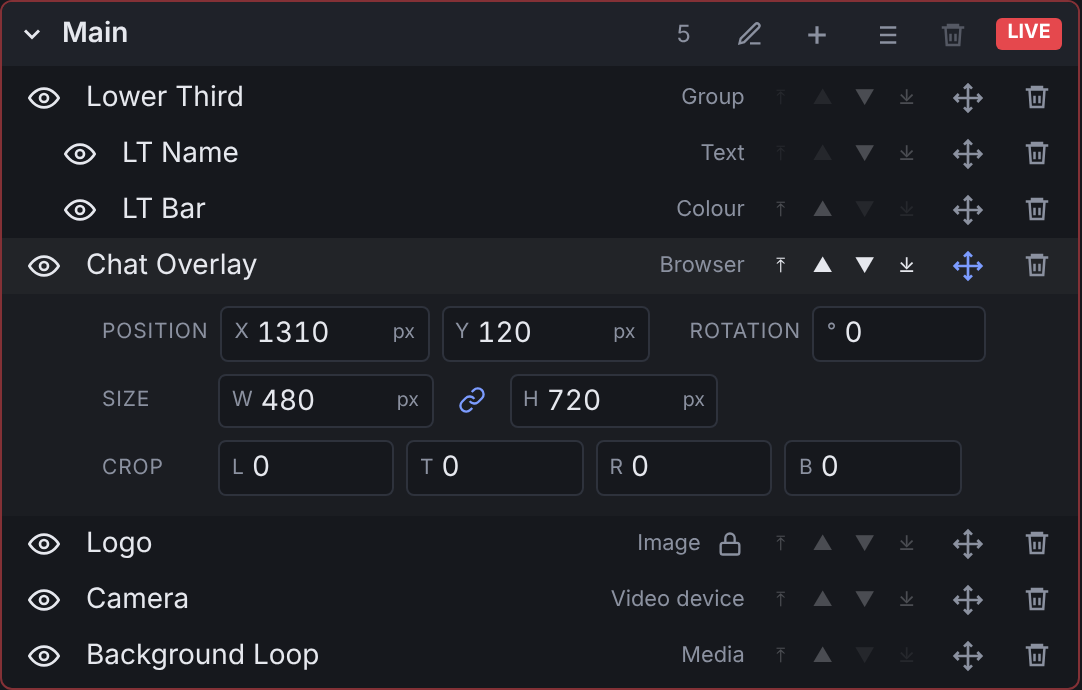
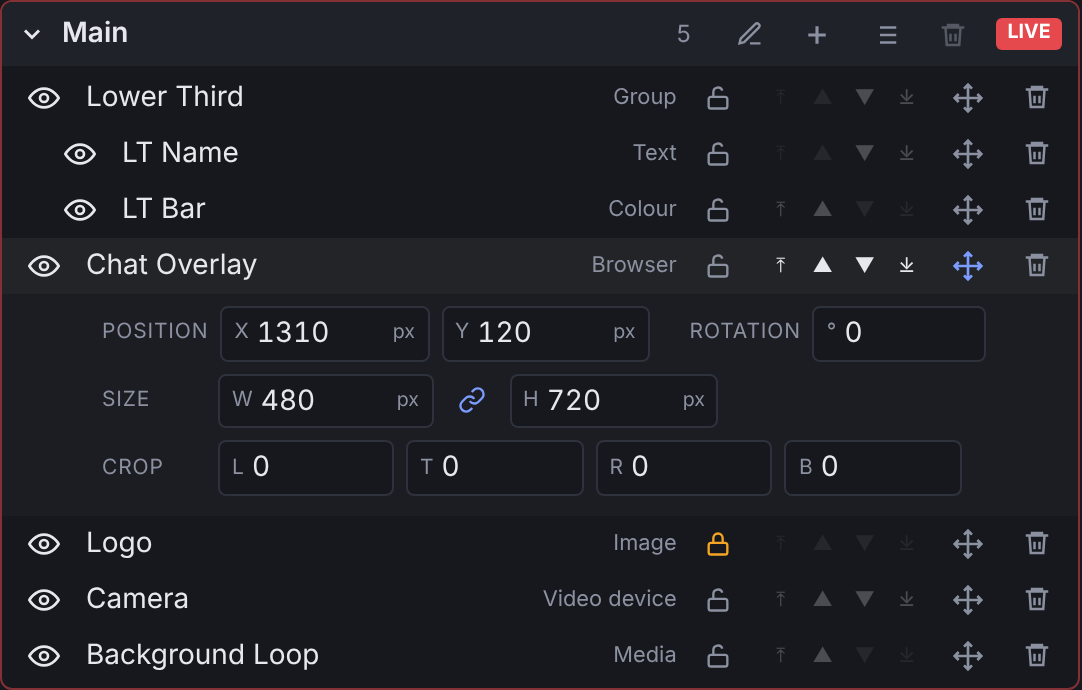
Lock and unlock sources from Stagehand

diff --git a/tests/app/scenes.test.tsx b/tests/app/scenes.test.tsx
@@ -13,7 +13,7 @@ describe('scenes and items', () => {
     expect(shownItems('Main')).toEqual(['Lower Third', 'LT Name', 'LT Bar', 'Chat Overlay', 'Logo', 'Camera', 'Background Loop'])
     expect(itemRow('Main', 'Lower Third').textContent).toContain('Group')
     expect(itemRow('Interview', 'Main').textContent).toContain('Scene')
-    expect(itemRow('Main', 'Logo').querySelector('.item__lock')).not.toBeNull()
+    expect(itemRow('Main', 'Logo').querySelector('.item__lock')!.getAttribute('aria-pressed')).toBe('true')
     expect(isHidden(itemRow('BRB', 'Music'))).toBe(true)
   })
 
@@ -200,5 +200,62 @@ describe('panel controls', () => {
     const count = obs.requestsOf('GetSourceScreenshot').length
     await sleep(1300)
     expect(obs.requestsOf('GetSourceScreenshot').length).toBe(count)
+  })
+})
+
+describe('locking items', () => {
+  const lockButton = (scene: string, name: string) => itemRow(scene, name).querySelector('button.item__lock') as HTMLButtonElement
+
+  test('the padlock shows OBS\'s lock state and toggles it', async () => {
+    const { obs, user } = await renderConnected()
+    expect(lockButton('Main', 'Logo').getAttribute('aria-pressed')).toBe('true') // locked in the fixture
+    expect(lockButton('Main', 'Camera').getAttribute('aria-pressed')).toBe('false')
+
+    await user.click(lockButton('Main', 'Camera'))
+    expect(await waitForRequest(obs, 'SetSceneItemLocked')).toMatchObject({ sceneName: 'Main', sceneItemLocked: true })
+    await waitFor(() => expect(obs.containers.get('Main')!.find((i) => i.sourceName === 'Camera')!.locked).toBe(true))
+    expect(lockButton('Main', 'Camera').getAttribute('aria-pressed')).toBe('true')
+
+    await user.click(lockButton('Main', 'Logo'))
+    expect(await waitForRequest(obs, 'SetSceneItemLocked', 2)).toMatchObject({ sceneItemLocked: false })
+  })
+
+  test('works inside groups (the group is the "scene" sent to OBS)', async () => {
+    const { obs, user } = await renderConnected()
+    await user.click(lockButton('Main', 'LT Bar'))
+    expect(await waitForRequest(obs, 'SetSceneItemLocked')).toMatchObject({ sceneName: 'Lower Third', sceneItemLocked: true })
+  })
+
+  test('a locked item can\'t be reordered, but its neighbours can', async () => {
+    await renderConnected()
+    const logo = itemRow('Main', 'Logo')
+    for (const t of [/Move to top/, 'Move up', 'Move down', /Move to bottom/]) expect(buttonTitled(logo, t).disabled).toBe(true)
+    expect(buttonTitled(itemRow('Main', 'Camera'), 'Move up').disabled).toBe(false)
+  })
+
+  test('a locked item\'s transform can be viewed but not changed', async () => {
+    const { obs, user } = await renderConnected()
+    await user.click(buttonTitled(itemRow('Main', 'Logo'), 'Edit transform'))
+    await waitFor(() => expect(itemRow('Main', 'Logo').querySelector('.transform .numfield')).not.toBeNull())
+    expect(itemRow('Main', 'Logo').textContent).toMatch(/Locked: unlock the item/)
+    const inputs = [...itemRow('Main', 'Logo').querySelectorAll<HTMLInputElement>('.transform input')]
+    expect(inputs.length).toBeGreaterThan(0)
+    expect(inputs.every((i) => i.matches(':disabled'))).toBe(true)
+
+    // Unlocking (here: from OBS itself) makes it editable straight away.
+    const id = obs.containers.get('Main')!.find((i) => i.sourceName === 'Logo')!.id
+    obs.emit('SceneItemLockStateChanged', { sceneName: 'Main', sceneItemId: id, sceneItemLocked: false })
+    await waitFor(() => expect(inputs.every((i) => !i.matches(':disabled'))).toBe(true))
+    await user.click(lockButton('Main', 'Logo')) // and locking again disables it
+    await waitFor(() => expect(inputs.every((i) => i.matches(':disabled'))).toBe(true))
+    expect(obs.requestsOf('SetSceneItemTransform')).toHaveLength(0)
+  })
+
+  test('if OBS refuses, the padlock flips back and an error is shown', async () => {
+    const { obs, user } = await renderConnected()
+    obs.failNext('SetSceneItemLocked', 600, 'No scene item')
+    await user.click(lockButton('Main', 'Camera'))
+    await screen.findByText(/couldn't lock item/i)
+    expect(lockButton('Main', 'Camera').getAttribute('aria-pressed')).toBe('false')
   })
 })

diff --git a/src/store/scenes.ts b/src/store/scenes.ts
@@ -27,6 +27,8 @@ interface ScenesState {
   /** Transforms of items whose editor is open, keyed by itemKey(container, id). */
   transforms: Record<string, Transform>
   setEnabled: (container: string, itemId: number, enabled: boolean) => Promise<void>
+  /** Lock or unlock an item in OBS (the padlock in OBS's Sources dock). */
+  setLocked: (container: string, itemId: number, locked: boolean) => Promise<void>
   clearError: () => void
   loadTransform: (container: string, itemId: number) => Promise<void>
   setTransform: (container: string, itemId: number, patch: Partial<Transform>) => Promise<void>
@@ -135,6 +137,11 @@ export const useScenes = create<ScenesState>()((set, get) => {
     }
   }
 
+  /** Locked items keep their position, size and order (also guarded here, not just in the UI). */
+  function isLocked(container: string, id: number) {
+    return get().items[container]?.find((it) => it.id === id)?.locked ?? false
+  }
+
   function patchItem(container: string, id: number, patch: Partial<SceneItem>) {
     const list = get().items[container]
     if (!list) return
@@ -184,6 +191,16 @@ export const useScenes = create<ScenesState>()((set, get) => {
       }
     },
 
+    setLocked: async (container, itemId, locked) => {
+      patchItem(container, itemId, { locked }) // optimistic
+      try {
+        await obs.call('SetSceneItemLocked', { sceneName: container, sceneItemId: itemId, sceneItemLocked: locked })
+      } catch (e) {
+        patchItem(container, itemId, { locked: !locked })
+        set({ error: `Couldn't ${locked ? 'lock' : 'unlock'} item: ${errorText(e)}` })
+      }
+    },
+
     clearError: () => set({ error: null }),
 
     removeItem: async (container, itemId) => {
@@ -199,7 +216,7 @@ export const useScenes = create<ScenesState>()((set, get) => {
       const list = get().items[container]
       if (!list) return
       const from = list.findIndex((it) => it.id === itemId)
-      if (from < 0) return
+      if (from < 0 || list[from].locked) return
       const last = list.length - 1
       const target = to === 'top' ? 0 : to === 'bottom' ? last : to === 'up' ? from - 1 : from + 1
       if (target < 0 || target > last || target === from) return
@@ -268,6 +285,10 @@ export const useScenes = create<ScenesState>()((set, get) => {
     },
 
     setTransform: async (container, itemId, patch) => {
+      if (isLocked(container, itemId)) {
+        set({ error: 'That item is locked: unlock it to change its position, size or crop.' })
+        return
+      }
       try {
         await obs.call('SetSceneItemTransform', {
           sceneName: container,

diff --git a/src/features/scenes/ItemRow.tsx b/src/features/scenes/ItemRow.tsx
@@ -1,5 +1,5 @@
 import { ConfirmStrip } from '../../components/ConfirmStrip'
-import { EyeIcon, EyeOffIcon, LockIcon, TransformIcon, TrashIcon } from '../../components/icons'
+import { EyeIcon, EyeOffIcon, LockIcon, TransformIcon, TrashIcon, UnlockIcon } from '../../components/icons'
 import { kindLabel } from '../../obs/kinds'
 import { useInputs } from '../../store/inputs'
 import { containersOf } from '../../store/live'
@@ -15,6 +15,7 @@ const indent = (depth: number, base = 8) => ({ paddingLeft: base + depth * 18 })
 export function ItemRow({ row, ui }: { row: Row; ui: ScenesPanelState }) {
   const { item, container, depth } = row
   const setEnabled = useScenes((s) => s.setEnabled)
+  const setLocked = useScenes((s) => s.setLocked)
   const key = itemKey(container, item.id)
   const editing = ui.openEditors.has(key)
 
@@ -31,12 +32,15 @@ export function ItemRow({ row, ui }: { row: Row; ui: ScenesPanelState }) {
         </button>
         <span className="item__name">{item.sourceName}</span>
         <span className="item__kind">{kindLabel(item.inputKind, item)}</span>
-        {item.locked && (
-          <span className="item__lock" title="Locked in OBS">
-            <LockIcon />
-          </span>
-        )}
-        <OrderButtons container={container} itemId={item.id} />
+        <button
+          className={`icon-button item__lock ${item.locked ? 'is-locked' : 'is-off'}`}
+          onClick={() => void setLocked(container, item.id, !item.locked)}
+          aria-pressed={item.locked}
+          title={item.locked ? 'Locked: position, size and order are protected. Click to unlock' : 'Unlocked: click to lock its position, size and order'}
+        >
+          {item.locked ? <LockIcon /> : <UnlockIcon />}
+        </button>
+        <OrderButtons container={container} itemId={item.id} locked={item.locked} />
         <button
           className={`icon-button ${editing ? 'is-active' : 'is-off'}`}
           onClick={() => ui.toggleEditor(key)}

diff --git a/src/features/scenes/OrderButtons.tsx b/src/features/scenes/OrderButtons.tsx
@@ -1,16 +1,19 @@
 import { useScenes } from '../../store/scenes'
 
-/** ⤒ ▲ ▼ ⤓ buttons for an item's stacking order. Buttons that would do nothing are disabled. */
-export function OrderButtons({ container, itemId }: { container: string; itemId: number }) {
+/**
+ * ⤒ ▲ ▼ ⤓ buttons for an item's stacking order. Buttons that would do nothing are disabled, and
+ * all of them are when the item is locked.
+ */
+export function OrderButtons({ container, itemId, locked = false }: { container: string; itemId: number; locked?: boolean }) {
   const siblings = useScenes((s) => s.items[container]) ?? []
   const moveItem = useScenes((s) => s.moveItem)
   const pos = siblings.findIndex((s) => s.id === itemId)
-  const isTop = pos <= 0
-  const isBottom = pos === siblings.length - 1
+  const isTop = locked || pos <= 0
+  const isBottom = locked || pos === siblings.length - 1
   const move = (to: 'top' | 'up' | 'down' | 'bottom') => void moveItem(container, itemId, to)
 
   return (
-    <span className="item__order" aria-label="Order">
+    <span className="item__order" aria-label="Order" title={locked ? 'Locked: unlock to change its order' : undefined}>
       <button className="order-button" disabled={isTop} onClick={() => move('top')} title="Move to top (drawn above everything)">⤒</button>
       <button className="order-button" disabled={isTop} onClick={() => move('up')} title="Move up">▲</button>
       <button className="order-button" disabled={isBottom} onClick={() => move('down')} title="Move down">▼</button>

diff --git a/src/features/scenes/TransformEditor.tsx b/src/features/scenes/TransformEditor.tsx
@@ -15,6 +15,8 @@ const positive = (n: number) => n > 0
 
 export function TransformEditor({ container, itemId }: Props) {
   const t = useScenes((s) => s.transforms[itemKey(container, itemId)])
+  // A locked item's transform can be viewed but not changed (as in OBS, where locked items can't be dragged).
+  const locked = useScenes((s) => s.items[container]?.find((i) => i.id === itemId)?.locked ?? false)
   const loadTransform = useScenes((s) => s.loadTransform)
   const setTransform = useScenes((s) => s.setTransform)
   const [lockAspect, setLockAspect] = useState(() => {
@@ -50,7 +52,8 @@ export function TransformEditor({ container, itemId }: Props) {
   }
 
   return (
-    <div className="transform">
+    <fieldset className="transform" disabled={locked}>
+      {locked && <p className="transform__locked">Locked: unlock the item to change its position, size or crop.</p>}
       <div className="transform__group">
         <span className="transform__title">Position</span>
         <NumberField label="X" value={t.positionX} onCommit={(n) => apply({ positionX: n })} unit="px" />
@@ -93,6 +96,6 @@ export function TransformEditor({ container, itemId }: Props) {
         <NumberField label="R" value={t.cropRight} validate={nonNegInt} onCommit={(n) => apply({ cropRight: Math.round(n) })} />
         <NumberField label="B" value={t.cropBottom} validate={nonNegInt} onCommit={(n) => apply({ cropBottom: Math.round(n) })} />
       </div>
-    </div>
+    </fieldset>
   )
 }

diff --git a/src/index.css b/src/index.css
@@ -101,7 +101,7 @@ button:disabled { opacity: 0.5; cursor: default; }
 .item:hover { background: #ffffff08; }
 .item__name { flex: 1; overflow: hidden; text-overflow: ellipsis; white-space: nowrap; }
 .item__kind { color: var(--muted); font-size: 0.78rem; }
-.item__lock { color: var(--muted); display: inline-flex; }
+
 .item.is-hidden .item__name { color: var(--muted); }
 
 .icon-button {
@@ -299,3 +299,7 @@ input.is-invalid { border-color: var(--live); }
 .connect__import-row { display: flex; align-items: center; justify-content: space-between; gap: 10px; font-size: 0.85rem; color: var(--muted); }
 .connect__import .error, .connect__import .transfer__done { margin: 0; font-size: 0.85rem; }
 .connect__notice { margin: 0; }
+.icon-button.is-locked { color: #f5a524; }
+fieldset.transform { border: 0; margin: 0; min-width: 0; }
+fieldset.transform:disabled { opacity: 0.6; }
+.transform__locked { flex-basis: 100%; margin: 0; color: #f5a524; font-size: 0.8rem; }

diff --git a/tests/mock/mockObs.ts b/tests/mock/mockObs.ts
@@ -345,6 +345,12 @@ export class MockObs {
         this.later('SceneItemEnableStateChanged', { sceneName: d.sceneName, sceneItemId: it.id, sceneItemEnabled: it.enabled })
         return
       }
+      case 'SetSceneItemLocked': {
+        const it = this.item(d.sceneName, d.sceneItemId)
+        it.locked = Boolean(d.sceneItemLocked)
+        this.later('SceneItemLockStateChanged', { sceneName: d.sceneName, sceneItemId: it.id, sceneItemLocked: it.locked })
+        return
+      }
       case 'SetSceneItemIndex': {
         const list = this.container(d.sceneName)
         const it = this.item(d.sceneName, d.sceneItemId)

diff --git a/src/components/icons.tsx b/src/components/icons.tsx
@@ -23,6 +23,13 @@ export const LockIcon = ({ size = 14 }: P) => (
   </svg>
 )
 
+export const UnlockIcon = ({ size = 14 }: P) => (
+  <svg width={size} height={size} viewBox="0 0 24 24" fill="none" stroke="currentColor" strokeWidth="2" aria-hidden>
+    <rect x="4" y="11" width="16" height="10" rx="2" />
+    <path d="M8 11V7a4 4 0 0 1 7.75-1.4" />
+  </svg>
+)
+
 export const ChevronIcon = ({ open, size = 14 }: P & { open: boolean }) => (
   <svg
     width={size} height={size} viewBox="0 0 24 24" fill="none" stroke="currentColor" strokeWidth="2.5" aria-hidden

diff --git a/README.md b/README.md
@@ -76,6 +76,8 @@ It is **not a replacement for OBS**. More specialist work is still done in OBS i
 - **Go live** button per scene (switches the Program scene)
 - Show/hide any item with one click; hidden items are greyed out
 - Reorder items: to top, up, down, to bottom (also inside groups)
+- **Lock** items (the same lock as OBS's padlock) so their position, size and order can't be
+  changed by accident
 - Inline **transform editor**: position, rotation, size (or bounding box), crop, with aspect lock
 - **Add sources** to a scene: create a new Browser, Media, Image, Image Slideshow or Text source,
   or add an existing source or scene
@@ -401,7 +403,7 @@ Each item row shows, from left to right:
 |---|---|
 | eye | Show or hide the item in this scene (applies immediately) |
 | name, type | Source name and type label (Browser, Media, Text, Group, Scene…) |
-| lock icon | Shown if the item is locked in OBS (read-only here) |
+| padlock | Lock or unlock the item ([see below](#locking-items)). Amber and closed when locked |
 | ⤒ ▲ ▼ ⤓ | Move to top / up / down / to bottom. Faint until you hover the row |
 | arrows icon | Open the transform editor |
 | bin | Remove or delete ([see below](#removing-and-deleting)) |
@@ -425,6 +427,26 @@ Opens under the item; several can be open at once. Fields:
 - **Crop** left / top / right / bottom (pixels)
 
 Open editors update live if you move the item in OBS.
+
+#### Locking items
+
+The padlock on each item is **OBS's own lock** (the padlock in OBS's Sources dock): locking an
+item in Stagehand locks it in OBS, and the other way round. Use it for things that should never
+move, such as a logo, a camera frame or a background.
+
+<img src="docs/images/locked.png" alt="A locked item: amber padlock, order buttons disabled, transform editor read-only" width="540">
+
+While an item is locked:
+
+- its **transform editor** shows the values but can't change them;
+- its **order buttons** are disabled (its neighbours can still move around it);
+- it can still be **shown or hidden**, its source's settings can still be edited, and it can
+  still be removed or deleted.
+
+Because the lock is stored in OBS's scene collection, it applies to everyone: every Stagehand
+user, and OBS itself (where a locked item can't be dragged or resized in the preview). OBS's own
+lock doesn't block reordering; Stagehand does, so a locked item can't be sent behind something
+by accident.
 
 #### Adding sources
 

diff --git a/docs/manual-test-checklist.md b/docs/manual-test-checklist.md
@@ -55,6 +55,9 @@ Sources panel and compare with OBS's own Properties window.
 - [ ] Transform on an item with a bounding box (*Edit Transform → Bounding Box Type*): the app
       shows *Bounds* and editing it changes the box.
 - [ ] Drag an item in OBS while its transform editor is open in the app → numbers update.
+- [ ] Padlock: lock an item in the app → OBS's Sources dock shows it locked and it can't be
+      dragged in OBS's preview. Lock one in OBS → the app's padlock closes, its transform editor
+      becomes read-only and its order buttons are disabled. Unlock from either side.
 
 ## Adding, removing, deleting
 

diff --git a/CHANGELOG.md b/CHANGELOG.md
@@ -12,6 +12,9 @@ section when a release is made (see "Releasing" in the README).
 
 ### Added
 
+- **Lock items** from Stagehand: the padlock on each scene item now locks or unlocks it in OBS.
+  A locked item's position, size, crop and order can't be changed (its transform editor becomes
+  read-only and its order buttons are disabled); it can still be shown, hidden and edited.
 - Instructions for hosting on **macOS or Linux** (README and `README-host.txt`): the web server
   runs anywhere Node.js does; only the `.bat` helper scripts are Windows-only.
 
